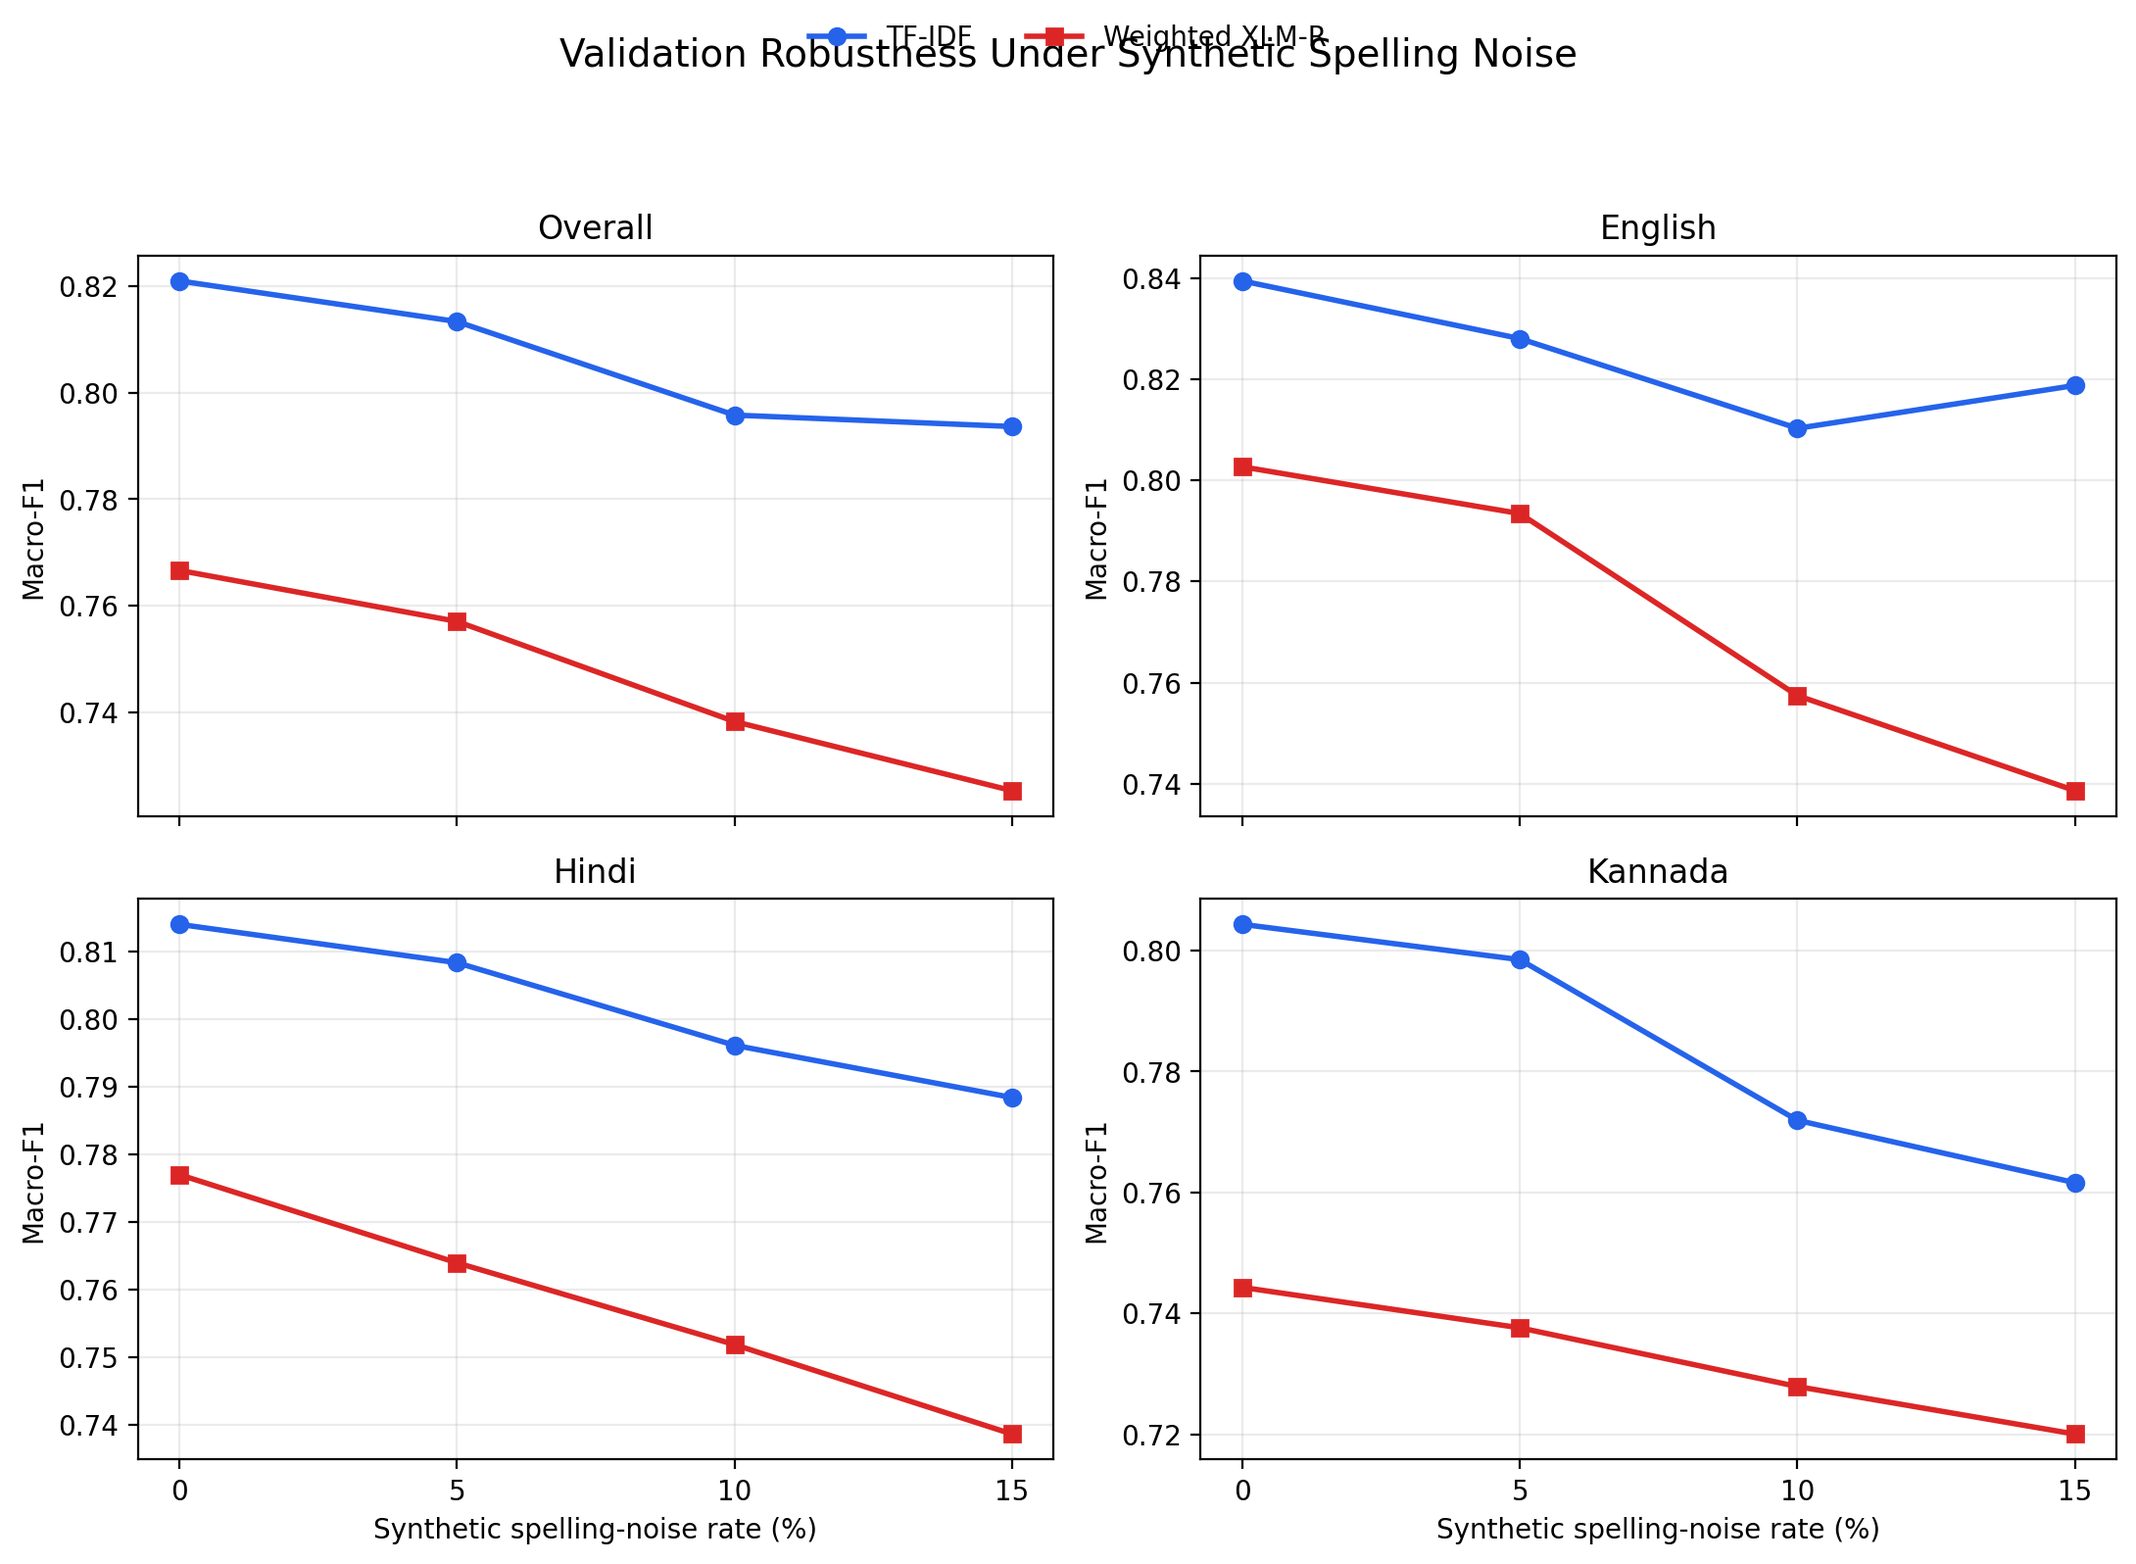
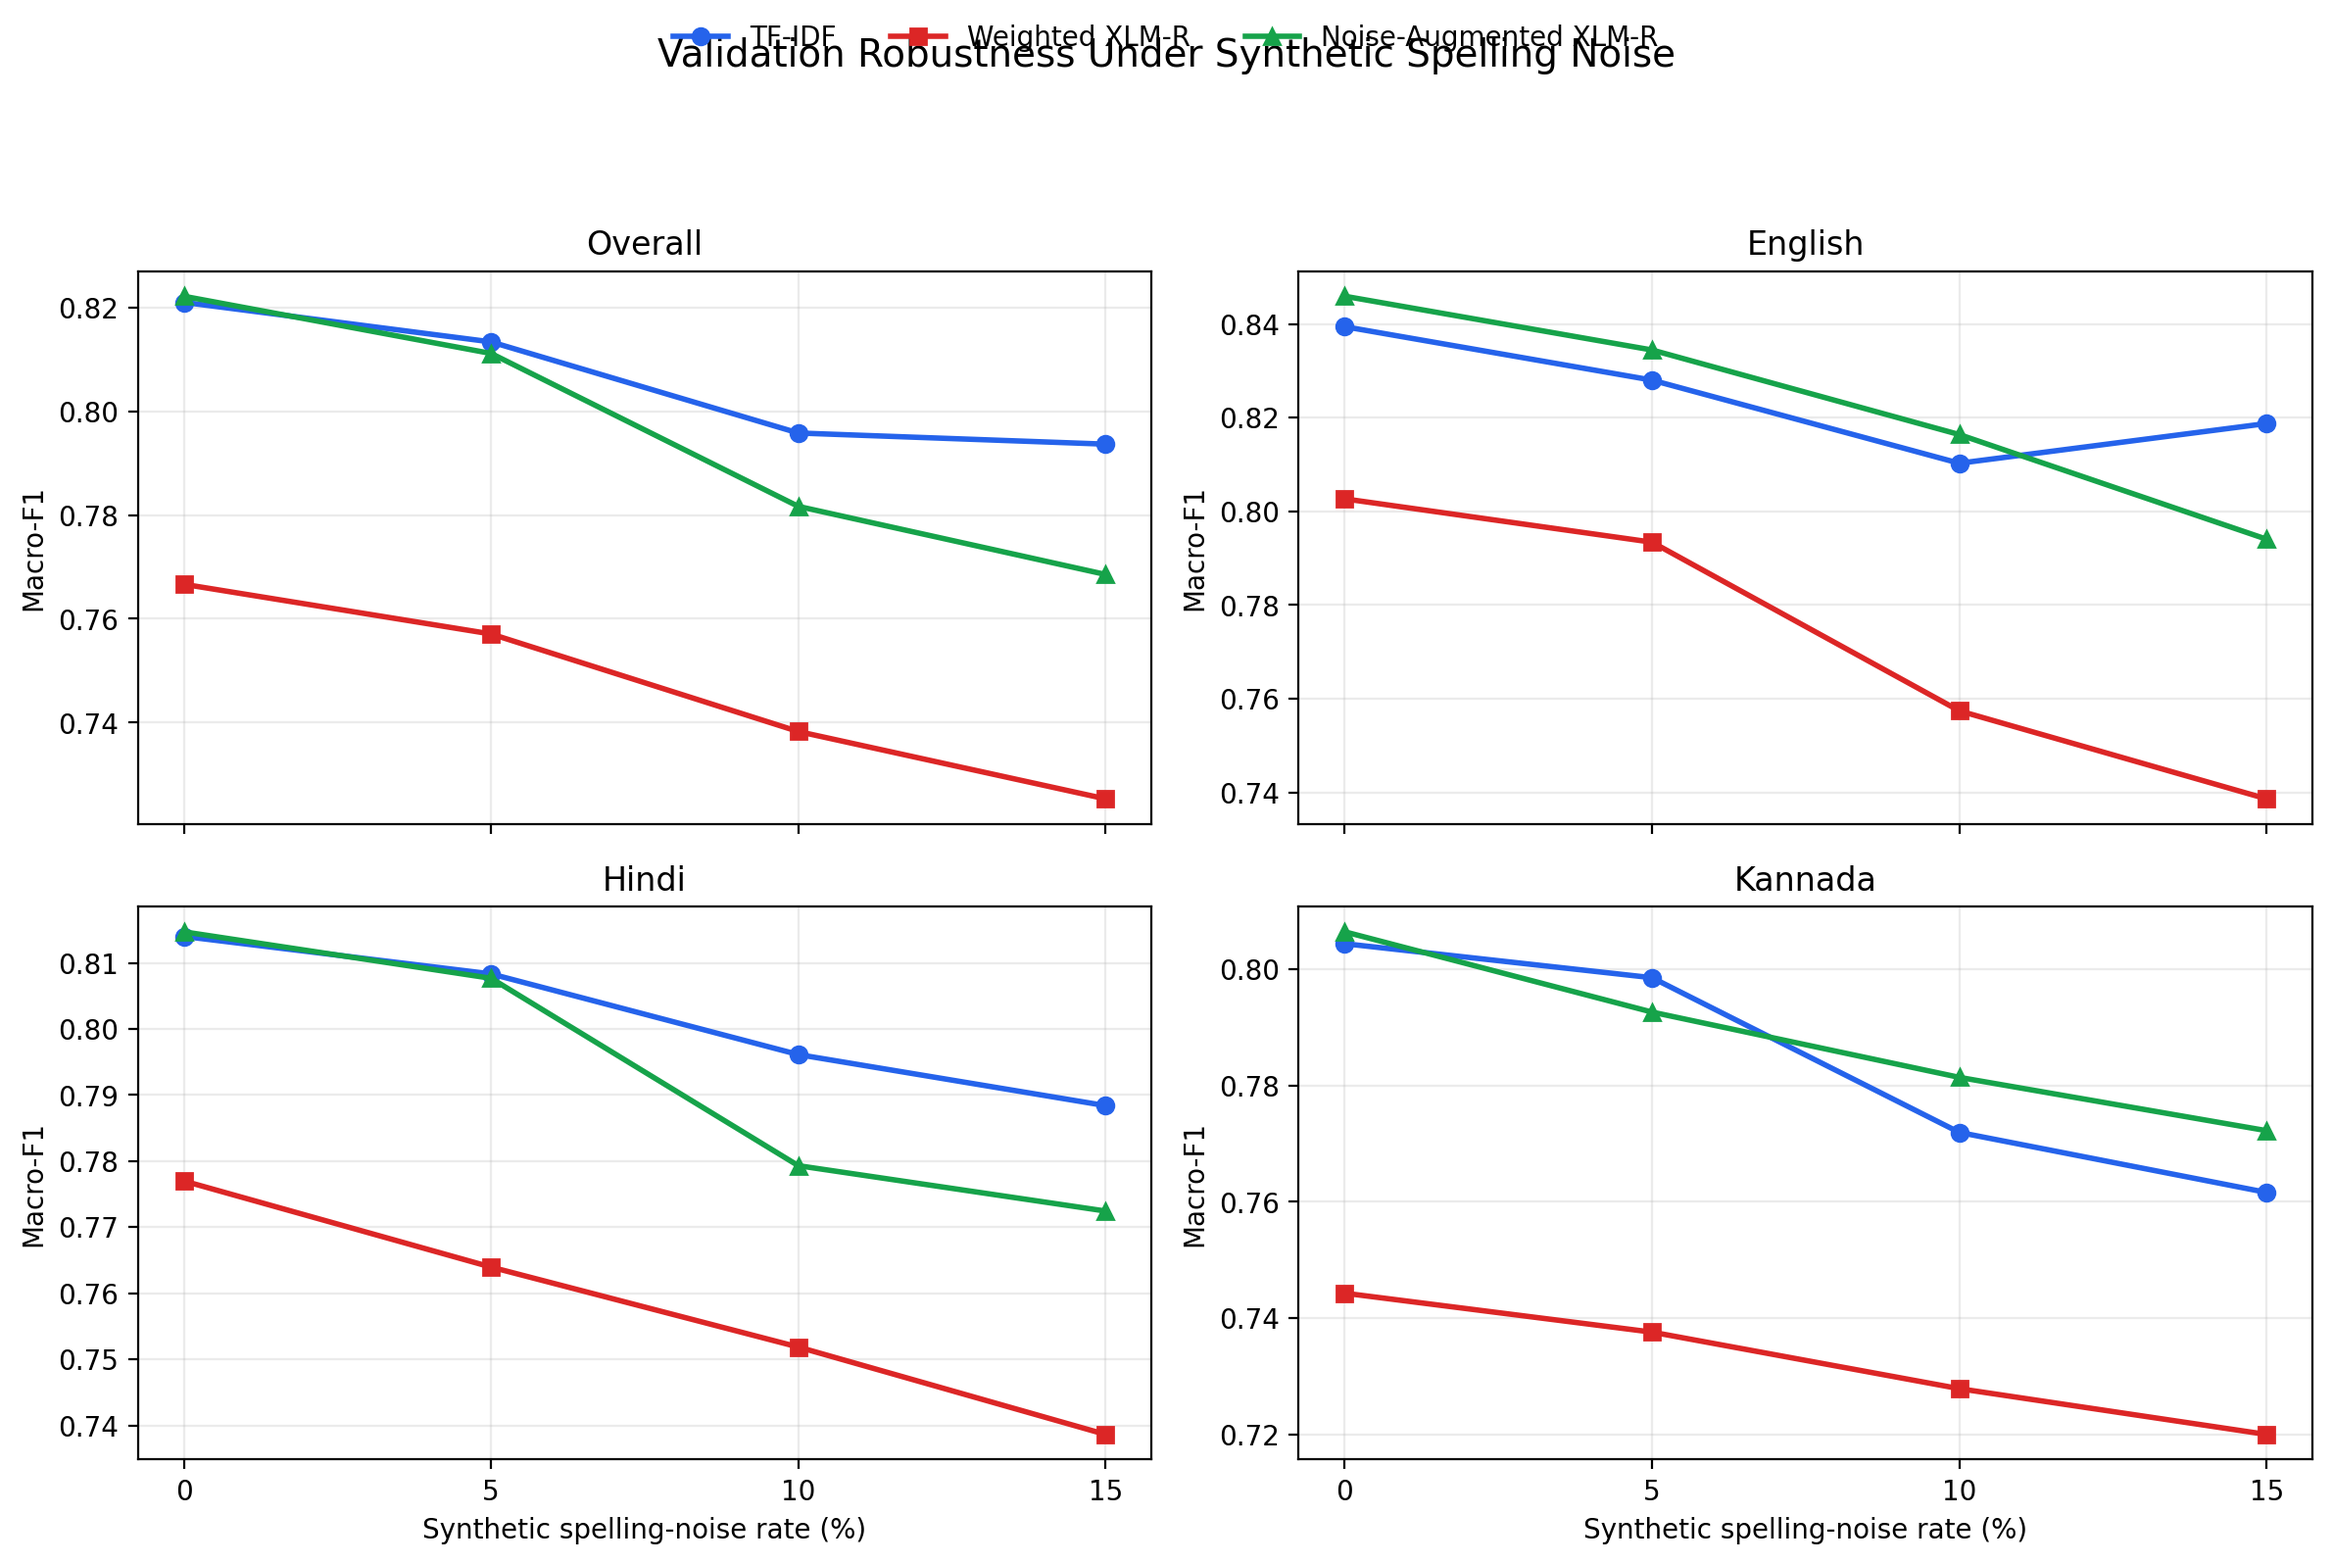
model: evaluate noise-augmented XLM-R

diff --git a/README.md b/README.md
@@ -89,27 +89,28 @@ Only verified experimental results are reported.
 <!-- SPELLING_NOISE_RESULTS_START -->
 ## Phase 3 — Synthetic spelling-noise robustness
 
-We evaluated the TF-IDF baseline and class-weighted XLM-R on the known-intent validation set under deterministic Unicode-aware spelling noise.
+We evaluated three models on the known-intent validation set under deterministic Unicode-aware spelling noise:
 
-Noise operations:
+- TF-IDF with logistic regression
+- Class-weighted XLM-R
+- Noise-augmented, class-weighted XLM-R
 
-- Single-grapheme deletion
-- Adjacent-grapheme transposition
-- Rates of 5%, 10%, and 15% per eligible word
-- Fixed random seed: 42
-- Test set remained untouched
+The perturbations use single-grapheme deletion and adjacent-grapheme transposition at rates of 5%, 10%, and 15% per eligible word. All experiments use random seed 42.
 
-Changed validation utterances:
+### Noise augmentation
 
-| Noise rate | Changed rows | Percentage |
-|---:|---:|---:|
-| 5% | 781 / 4,629 | 16.87% |
-| 10% | 1,463 / 4,629 | 31.61% |
-| 15% | 2,004 / 4,629 | 43.29% |
+The augmented XLM-R was trained using:
 
-Overall validation results:
+- 26,193 clean training examples
+- 5,967 synthetic noisy copies
+- 1,989 noisy copies per language
+- 32,160 total training examples
+- Two training epochs
+- No validation or test examples in training
 
-| Model | Noise rate | Accuracy | Macro-F1 | Macro-F1 drop |
+### Overall validation results
+
+| Model | Noise | Accuracy | Macro-F1 | Drop from clean |
 |---|---:|---:|---:|---:|
 | TF-IDF | 0% | 0.8369 | 0.8210 | 0.0000 |
 | TF-IDF | 5% | 0.8283 | 0.8133 | 0.0076 |
@@ -119,8 +120,14 @@ Overall validation results:
 | Weighted XLM-R | 5% | 0.8365 | 0.7571 | 0.0096 |
 | Weighted XLM-R | 10% | 0.8220 | 0.7383 | 0.0284 |
 | Weighted XLM-R | 15% | 0.8075 | 0.7253 | 0.0413 |
+| Noise-Augmented XLM-R | 0% | 0.8635 | 0.8221 | 0.0000 |
+| Noise-Augmented XLM-R | 5% | 0.8516 | 0.8111 | 0.0110 |
+| Noise-Augmented XLM-R | 10% | 0.8404 | 0.7817 | 0.0405 |
+| Noise-Augmented XLM-R | 15% | 0.8280 | 0.7685 | 0.0536 |
 
-Both models degrade under spelling noise. TF-IDF retains the stronger macro-F1, while weighted XLM-R retains slightly higher accuracy. These results measure robustness to controlled synthetic perturbations and should not be interpreted as performance on naturally occurring user typos.
+Noise augmentation improves XLM-R's absolute accuracy and macro-F1 at every evaluated noise level. However, the augmented model still degrades relative to its own stronger clean score. TF-IDF retains the highest macro-F1 at 5%, 10%, and 15% noise, while the augmented XLM-R has the highest accuracy.
+
+These experiments use controlled synthetic perturbations and do not establish performance on naturally occurring spelling errors. The final test set remains untouched.
 
 ![Spelling-noise robustness](results/figures/spelling_noise_robustness.png)
 <!-- SPELLING_NOISE_RESULTS_END -->
